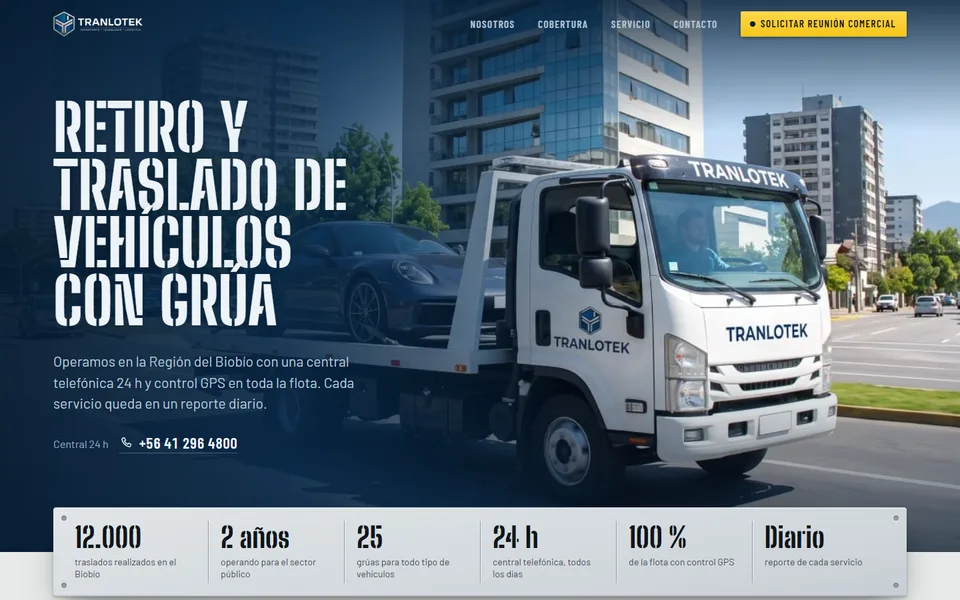
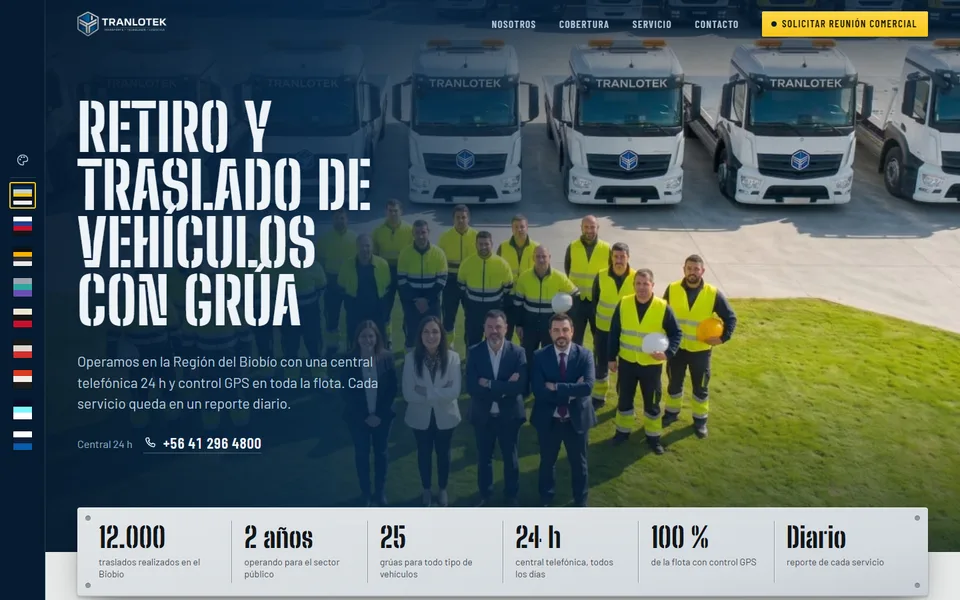
V3: flota en la portada, grúa en ruta en Nosotros y sin crédito
Se intercambian las fotos de la portada y de Nosotros. El título de
Nosotros pasa a "La red más grande de grúas en la Región del Biobío".
Se quita el crédito de desarrollo del pie.

diff --git a/v3/index.html b/v3/index.html
@@ -80,11 +80,11 @@
 
   <main id="contenido">
 
-    <!-- Portada: grúa en ruta -->
+    <!-- Portada: la flota -->
     <section class="hero" id="inicio" aria-labelledby="hero-title">
       <picture class="hero__photo">
-        <source media="(max-width: 900px)" srcset="assets/img/log-seguridad-800.webp 800w, assets/img/log-seguridad-1584.webp 1584w" sizes="100vw">
-        <img src="assets/img/log-seguridad-1584.webp" srcset="assets/img/log-seguridad-800.webp 800w, assets/img/log-seguridad-1584.webp 1584w" sizes="100vw" width="1584" height="672" fetchpriority="high" alt="Grúa plataforma de TRANLOTEK trasladando un auto deportivo por una avenida de la ciudad.">
+        <source media="(max-width: 900px)" srcset="assets/img/hero-800.webp 800w, assets/img/hero-1200.webp 1200w, assets/img/hero-1584.webp 1584w" sizes="100vw">
+        <img src="assets/img/hero-1584.webp" srcset="assets/img/hero-800.webp 800w, assets/img/hero-1200.webp 1200w, assets/img/hero-1584.webp 1584w" sizes="100vw" width="1584" height="672" fetchpriority="high" alt="Equipo de TRANLOTEK, conductores con chaleco reflectante y ejecutivos, frente a una fila de grúas de la flota con el logo de la empresa.">
       </picture>
       <div class="hero__veil" aria-hidden="true"></div>
       <div class="hero__inner wrap">
@@ -122,10 +122,10 @@
     <!-- Nosotros: la flota -->
     <section class="ground about" id="nosotros" aria-labelledby="about-title">
       <div class="wrap">
-        <h2 class="big-word" id="about-title">25 grúas <span>para todo tipo de vehículos</span></h2>
+        <h2 class="big-word about__title" id="about-title">La red más grande de grúas <span>en la Región del Biobío</span></h2>
       </div>
       <figure class="fleet">
-        <img src="assets/img/hero-1584.webp" srcset="assets/img/hero-800.webp 800w, assets/img/hero-1200.webp 1200w, assets/img/hero-1584.webp 1584w" sizes="100vw" width="1584" height="672" loading="lazy" alt="Equipo de TRANLOTEK, conductores con chaleco reflectante y ejecutivos, frente a una fila de grúas de la flota con el logo de la empresa.">
+        <img src="assets/img/log-seguridad-1584.webp" srcset="assets/img/log-seguridad-800.webp 800w, assets/img/log-seguridad-1584.webp 1584w" sizes="100vw" width="1584" height="672" loading="lazy" alt="Grúa plataforma de TRANLOTEK trasladando un auto deportivo por una avenida de la ciudad.">
       </figure>
       <div class="wrap about__grid">
         <div class="about__text">
@@ -153,7 +153,6 @@
               <div><dt>de norte a sur</dt><dd>84 km</dd></div>
             </dl>
           </div>
-          <p class="coverage__src">Límites: © OpenStreetMap</p>
         </div>
         <figure class="gcmap" data-routemap>
           <svg viewBox="-150 -20 519 458" role="img" aria-labelledby="gc-map-t gc-map-d">
@@ -414,7 +413,6 @@
     <div class="wrap footer__base">
       <p>© <span data-year>2026</span> TRANLOTEK SpA. Todos los derechos reservados.</p>
       <p class="footer__tag">Transporte · Tecnología · Logística</p>
-      <p>Desarrollado por <a href="https://www.piacarrascozavala.com" rel="noopener" target="_blank">Pía CZ</a></p>
     </div>
   </footer>
 

diff --git a/v3/assets/css/styles.css b/v3/assets/css/styles.css
@@ -93,7 +93,7 @@ button,input{font:inherit;color:inherit}
 /* ---------- Portada: grúa en ruta ---------- */
 .hero{position:relative;isolation:isolate;color:var(--on-door);background:var(--door-night);min-height:clamp(640px,92svh,880px);display:flex;flex-direction:column;justify-content:center;padding-top:var(--masthead)}
 .hero__photo{position:absolute;inset:0;z-index:-2}
-.hero__photo img{width:100%;height:100%;object-fit:cover;object-position:42% 55%}
+.hero__photo img{width:100%;height:100%;object-fit:cover;object-position:62% 50%}
 .hero__veil{position:absolute;inset:0;z-index:-1;background:
   linear-gradient(90deg,color-mix(in srgb,var(--door-night) 94%,transparent) 0%,color-mix(in srgb,var(--door-deep) 86%,transparent) 30%,color-mix(in srgb,var(--door-deep) 42%,transparent) 50%,color-mix(in srgb,var(--door-deep) 0%,transparent) 66%),
   linear-gradient(0deg,color-mix(in srgb,var(--door-night) 70%,transparent) 0%,color-mix(in srgb,var(--door-night) 0%,transparent) 34%),
@@ -195,7 +195,7 @@ button,input{font:inherit;color:inherit}
 /* ---------- Sobre nosotros ---------- */
 .ground{background:var(--concrete);color:var(--ink)}
 .about{padding-block:calc(var(--section) + 70px) var(--section)}
-.about .big-word{max-width:14ch}
+.about .big-word{max-width:20ch}
 .fleet{margin-top:clamp(40px,5vw,72px)}
 .fleet img{width:100%;height:auto;aspect-ratio:1584/672;object-fit:cover}
 .about__grid{display:block}
@@ -349,7 +349,7 @@ button,input{font:inherit;color:inherit}
   .hero__inner{order:1}
   .hero__photo{order:2;position:relative;inset:auto;z-index:0;display:block}
   .hero__plate{order:3}
-  .hero__photo img{height:auto;aspect-ratio:16/10;object-position:62% 60%}
+  .hero__photo img{height:auto;aspect-ratio:16/10;object-position:50% 55%}
   .hero__veil{display:none}
   .hero__inner{padding-block:40px 36px;background:linear-gradient(180deg,var(--door-night),var(--door-deep))}
   .hero__copy{max-width:none}
@@ -400,7 +400,7 @@ button,input{font:inherit;color:inherit}
   .boom{display:none}
   .about .dataplate--fleet{margin-top:var(--s-6)}
   .about__text{padding-top:var(--s-6)}
-  .fleet img{aspect-ratio:4/3;object-position:50% 45%}
+  .fleet img{aspect-ratio:4/3;object-position:62% 55%}
   .contact__copy{padding-right:0}
   .footer__grid{grid-template-columns:1fr 1fr}
   .footer__brand{grid-column:1 / -1}

diff --git a/index.html b/index.html
@@ -101,7 +101,7 @@
               <span class="frame__url mono">tranlotek-landing-demo/<b>v3</b>/</span>
             </div>
             <div class="frame__shot">
-              <img src="hub/v3.webp" alt="Portada de la versión 3: título «Retiro y traslado de vehículos con grúa» sobre la foto de una grúa trasladando un auto, con las cifras en una placa" width="960" height="600" loading="lazy" decoding="async">
+              Portada de la versión 3: título «Retiro y traslado de vehículos con grúa» sobre la foto de la flota y el equipo, con las cifras en una placa" width="960" height="600" loading="lazy" decoding="async">
               <span class="frame__open"><svg class="ico" aria-hidden="true"><use href="#i-eye"/></svg>Ver versión</span>
             </div>
           </div>
@@ -111,9 +111,9 @@
               <span class="status status--live mono"><span class="dot dot--live" aria-hidden="true"></span>Live</span>
               <span class="status status--new mono">Nueva</span>
             </div>
-            <p class="card__d" id="v3-d">Retiro y traslado de vehículos: portada con la grúa en ruta y las 6 cifras, flota, mapa del Gran Concepción, las cuatro etapas del traslado y una grúa que levanta el formulario de contacto.</p>
+            <p class="card__d" id="v3-d">Retiro y traslado de vehículos: portada con la flota y las 6 cifras, la grúa en ruta, mapa del Gran Concepción, las cuatro etapas del traslado y una grúa que levanta el formulario de contacto.</p>
             <ul class="chips mono" aria-label="Contenido">
-              <li>Grúa en ruta</li><li>Gran Concepción</li><li>4 etapas</li><li>Grúa con gancho</li>
+              <li>Flota en portada</li><li>Gran Concepción</li><li>4 etapas</li><li>Grúa con gancho</li>
             </ul>
             <dl class="meta mono">
               <div><dt><svg class="ico" aria-hidden="true"><use href="#i-cal"/></svg><span class="sr-only">Fecha</span></dt><dd>21·10·2026</dd></div>
